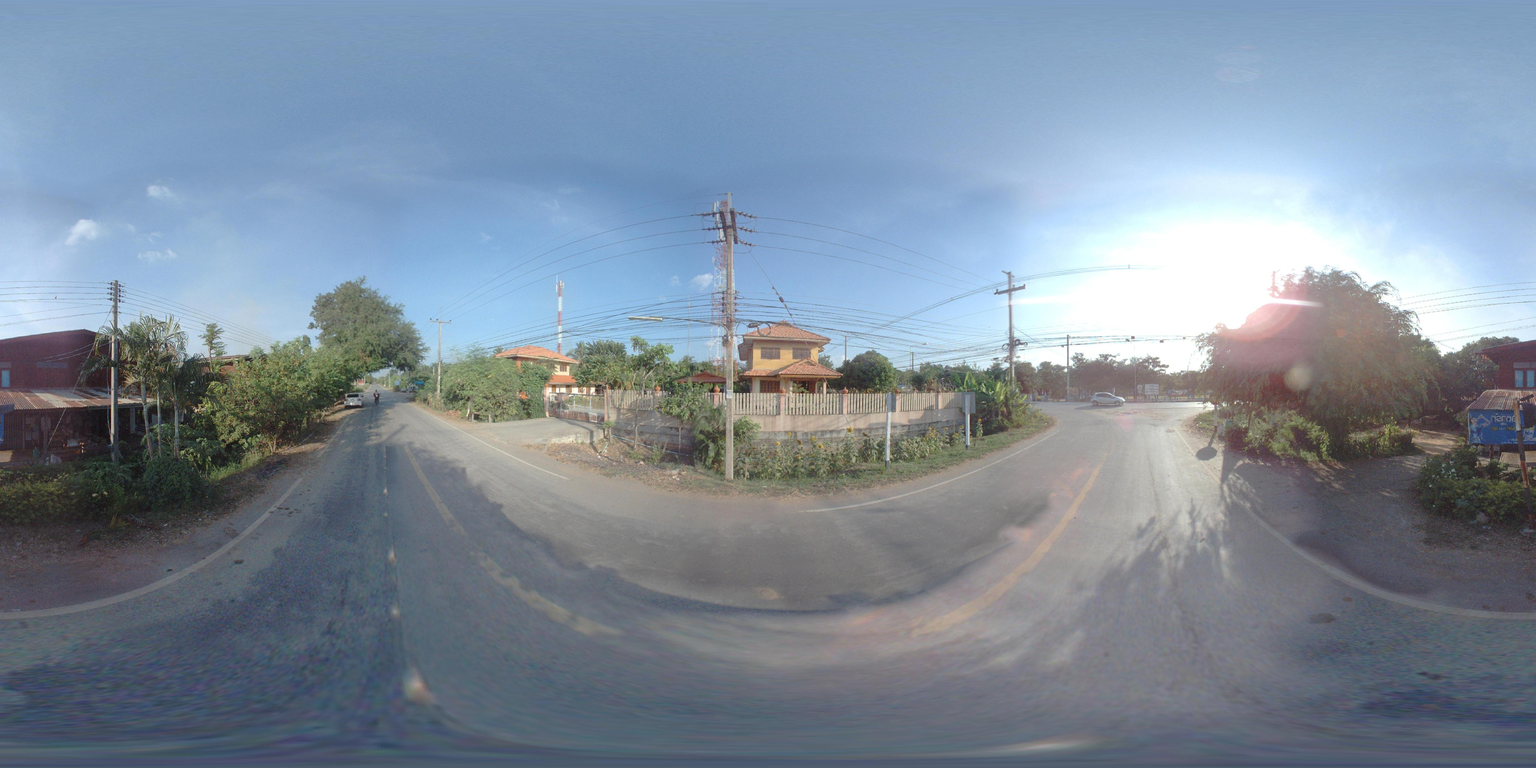
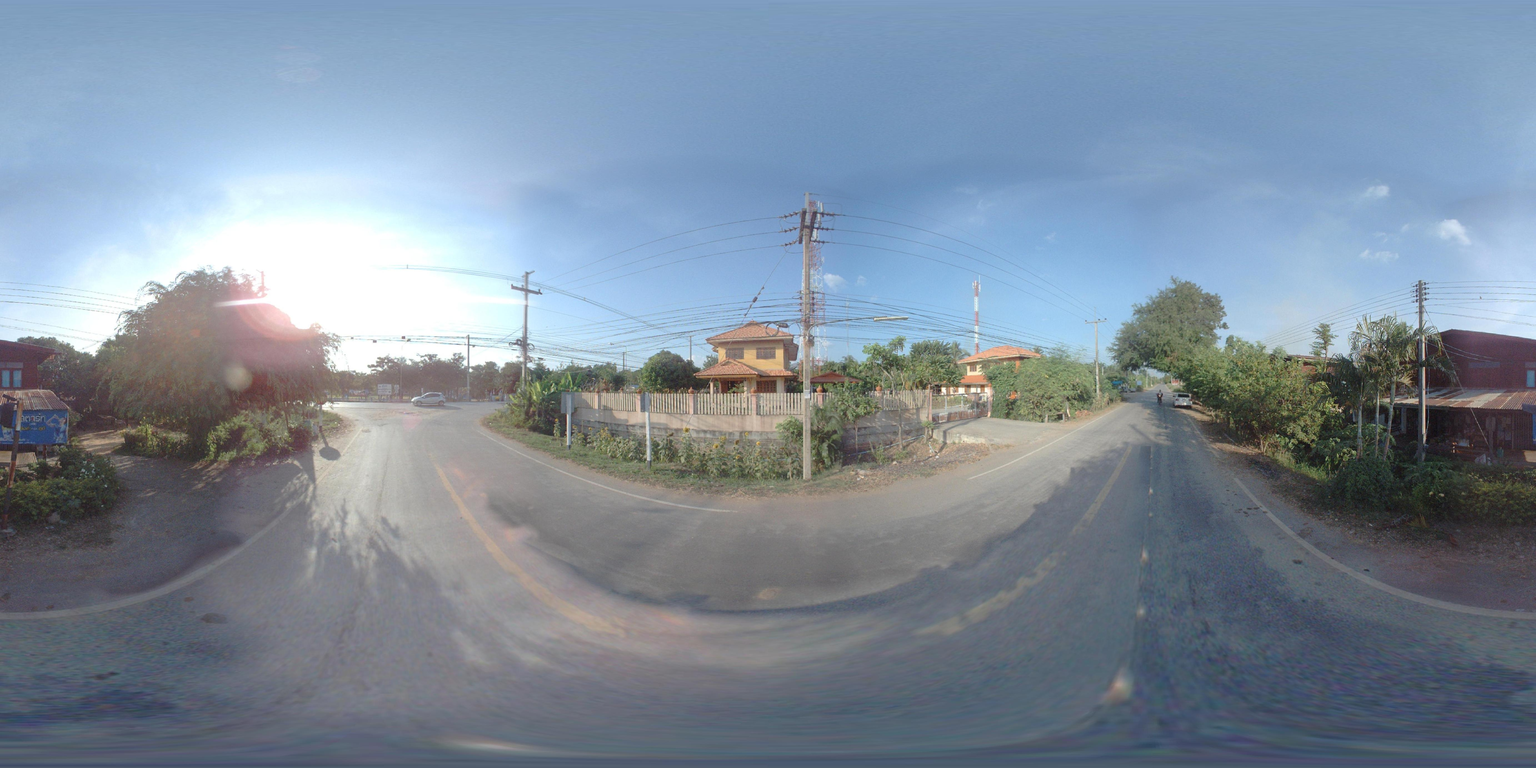
fix image left-right flip bug

diff --git a/src/com/longdo/pano/Cube2Erect.java b/src/com/longdo/pano/Cube2Erect.java
@@ -79,7 +79,7 @@ public class Cube2Erect {
 			z /= absX;
 			y /= absX;
 			
-			if(!isLeft) {
+			if(isLeft) {
 				z = -z;
 			}
 			
@@ -105,7 +105,7 @@ public class Cube2Erect {
 			z /= absY;
 			x /= absY;
 			
-			if(!isTop) {
+			if(isTop) {
 				z = -z;
 			}
 			
@@ -125,7 +125,7 @@ public class Cube2Erect {
 			selectColor(w, h, targetColor, target, xx, yy);
 		}
 		else { // on front or back face
-			boolean isFront = z > 0;
+			boolean isFront = z < 0;
 
 			// intersection point on z plane
 			y /= absZ;
